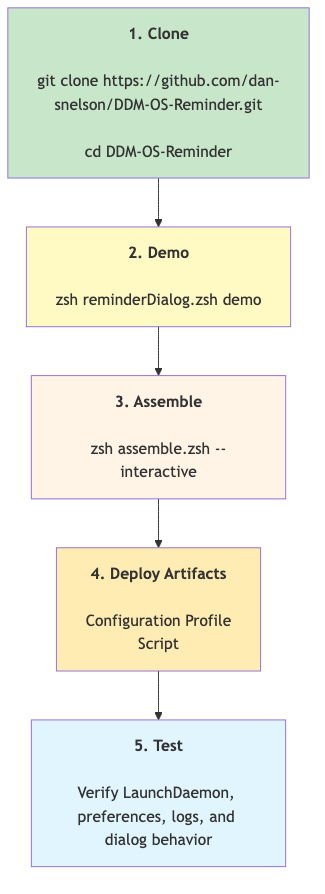
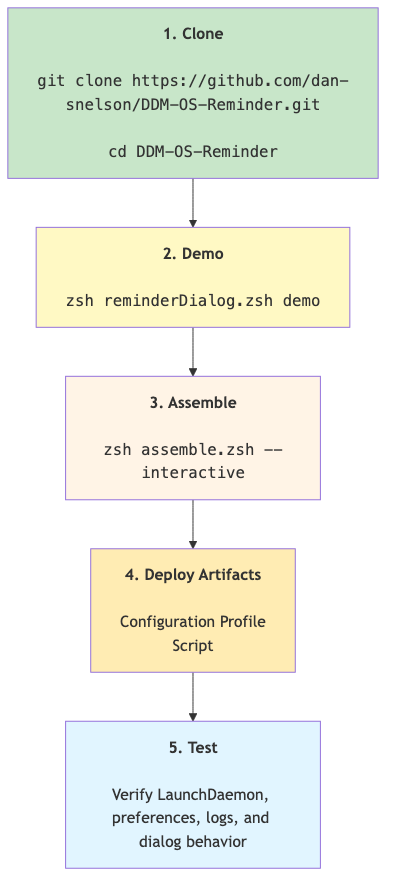
2.6.0

diff --git a/Diagrams/00-overview.md b/Diagrams/00-overview.md
@@ -4,9 +4,9 @@ This diagram gives Mac Admins a simple, high-level deployment path for DDM OS Re
 
 ```mermaid
 flowchart TD
-    Clone["<b>1. Clone</b><br/><br/>git&nbsp;clone&nbsp;https://github.com/dan-snelson/DDM-OS-Reminder.git<br/><br/>cd&nbsp;DDM-OS-Reminder"]
-    Demo["<b>2. Demo</b><br/><br/>zsh&nbsp;reminderDialog.zsh&nbsp;demo"]
-    Assemble["<b>3. Assemble</b><br/><br/>zsh&nbsp;assemble.zsh&nbsp;--interactive"]
+    Clone["<b>1. Clone</b><br/><br/><code>git&nbsp;clone&nbsp;https://github.com/dan-snelson/DDM-OS-Reminder.git</code><br/><br/><code>cd&nbsp;DDM-OS-Reminder</code>"]
+    Demo["<b>2. Demo</b><br/><br/><code>zsh&nbsp;reminderDialog.zsh&nbsp;demo</code>"]
+    Assemble["<b>3. Assemble</b><br/><br/><code>zsh&nbsp;assemble.zsh&nbsp;--interactive</code>"]
     Deploy["<b>4. Deploy Artifacts</b><br/><br/>Configuration Profile<br/>Script"]
     Test["<b>5. Test</b><br/><br/>Verify LaunchDaemon, preferences, logs, and dialog behavior"]
 
